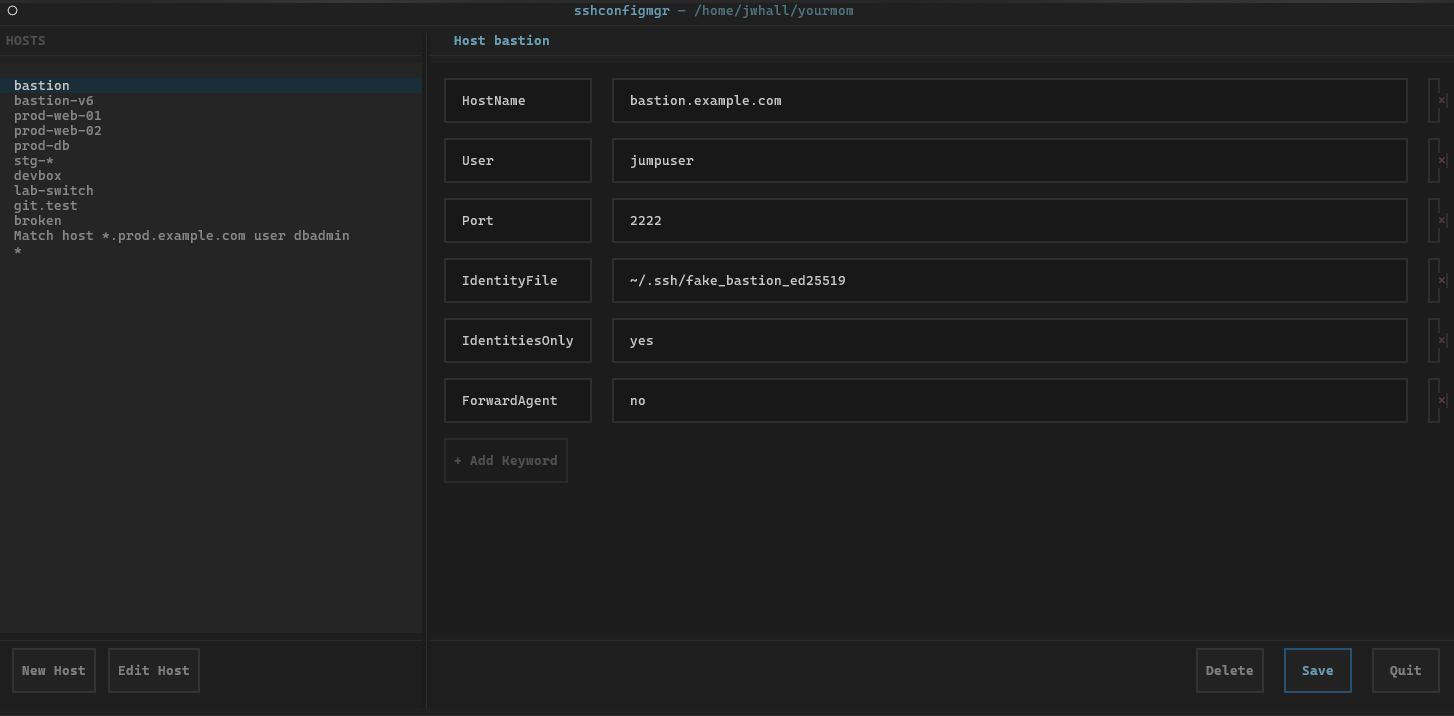
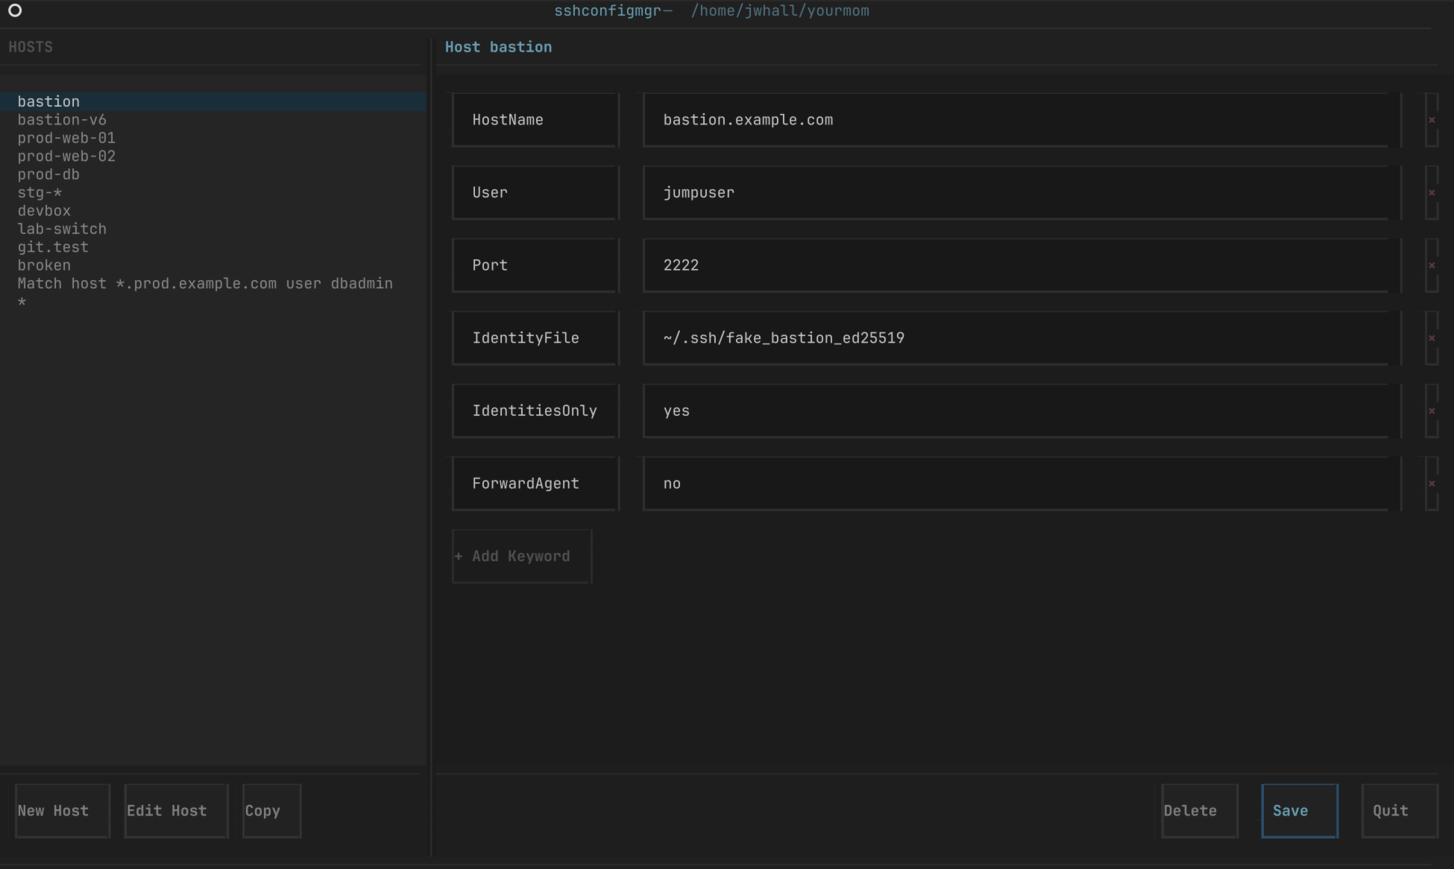
Release 0.5.0: fix Copy Host after 0.4.0 merge, refresh screenshot
- action_copy_host still called _mark_modified() and the old ListView
  index API, both removed in 0.4.0, so confirming the Copy dialog raised
  AttributeError. Mirror action_new_host: _rebuild_list(select=...) and
  _refresh_modified().
- Give the sidebar a minimum width of 36 so New Host / Edit Host / Copy
  all fit; at 30% of an 80- or 100-column terminal the Copy button was
  clipped. The editor pane now takes the remaining width.
- Add an app-level test that copies a host via the button, including an
  unsaved edit on the source.
- Remove the duplicated pre-0.4.0 changelog left by the merge of main
  into feature/copy-host, and add the 0.5.0 entry.
- Bump version to 0.5.0 and regenerate screenshot.png.

diff --git a/tests/test_app.py b/tests/test_app.py
@@ -525,6 +525,29 @@ def test_new_host_is_selected(tmp_config: Path) -> None:
     run(tmp_config, script)
 
 
+def test_copy_host_duplicates_params_and_selects_copy(tmp_config: Path) -> None:
+    tmp_config.write_text(VARIED)
+
+    async def script(app: SSHConfigApp, pilot: Pilot) -> None:
+        app._select(1)  # three
+        await settle(pilot)
+        # An unsaved edit on the source is carried into the copy.
+        app.query(ParamRow).first().query_one(".param-val", Input).value = "edited"
+        await settle(pilot)
+        await choose(pilot, "btn-copy-host")
+        assert isinstance(app.screen, InputScreen)
+        app.screen.query_one("#dialog-input", Input).value = "three-copy"
+        await choose(pilot, "ok")
+        expected = [("User", "edited"), ("Port", "3"), ("ForwardAgent", "yes")]
+        assert host_list_labels(app)[-1] == "three-copy"
+        assert app._current_entry.pattern == "three-copy"
+        assert shown_params(app) == expected
+        assert app._config.entries[1].params == expected
+        assert app._modified
+
+    run(tmp_config, script)
+
+
 def test_open_shows_first_entry_of_new_file(tmp_config: Path, tmp_path: Path) -> None:
     tmp_config.write_text(VARIED)
     other = tmp_path / "other"

diff --git a/src/sshconfigmgr/app.py b/src/sshconfigmgr/app.py
@@ -60,6 +60,7 @@ Footer {
 
 #sidebar {
     width: 30%;
+    min-width: 36;
     border-right: solid #2e2e2e;
     layout: vertical;
     background: #1c1c1c;
@@ -130,7 +131,7 @@ Footer {
 /* ── Editor ── */
 
 #editor {
-    width: 70%;
+    width: 1fr;
     layout: vertical;
 }
 
@@ -1145,14 +1146,9 @@ class SSHConfigApp(App[None]):
                 return
             # Capture any unsaved edits on the source before copying its params.
             self._sync_params_to_entry()
-            entry = self._config.copy_entry(source, pattern)
-            self._loading = True
-            self._rebuild_list()
-            self._loading = False
-            self._load_entry(entry)
-            lv = self.query_one("#host-list", HostListView)
-            lv.index = len(self._config.entries) - 1
-            self._mark_modified()
+            self._config.copy_entry(source, pattern)
+            self._rebuild_list(select=len(self._config.entries) - 1)
+            self._refresh_modified()
 
         self.push_screen(
             InputScreen("Copy host to...", "Copy Host Profile"),

diff --git a/CHANGELOG.md b/CHANGELOG.md
@@ -2,35 +2,16 @@
 
 All notable changes to this project will be documented in this file. This project adheres to [Semantic Versioning](https://semver.org/spec/v2.0.0.html).
 
-## [Unreleased]
+## [0.5.0] - 2026-10-20
 ### Added
 - **Copy Host Action**: Added a "Copy" button next to "Edit Host" that duplicates the selected Host entry, with all of its keywords and values, under a new Host pattern.
 
-## [0.3.0] - 2026-03-12
-### Added
-- **Source Layout**: Migrated code to a `src/` directory structure for better packaging compliance.
-- **CI/CD Workflow**: Added GitHub Actions to run tests automatically on Ubuntu and Windows.
-- **Unit Tests**: Implemented a test suite for the SSH parser and port validation logic.
-- **Package Metadata**: Added `__init__.py` and updated `pyproject.toml` with entry points and project URLs.
-- **Edit Host Action**: Added the ability to rename or edit existing Host patterns within the TUI.
+### Fixed
+- The "Copy" button was clipped off the sidebar on terminals narrower than ~120 columns; the sidebar now has a minimum width that fits all three host buttons.
 
 ### Changed
-- Refactored imports to use the `sshconfigmgr` namespace.
-- Updated `pyproject.toml` version to 0.3.0.
-
-## [0.2.0] - 2026-02-15
-### Added
-- Integrated validation logic for SSH Port ranges (1-65535).
-- Implemented "Add Keyword" modal with live filtering of `ssh_config` directives.
-
-## [0.1.0] - 2026-01-30
-### Added
-- Initial release with basic TUI functionality.
-- Support for reading and saving standard SSH config files.
-- Preamble and leading comment preservation.
-# Changelog
-
-All notable changes to this project will be documented in this file. This project adheres to [Semantic Versioning](https://semver.org/spec/v2.0.0.html).
+- Updated README screenshot to show the Copy button.
+- Updated `pyproject.toml` version to 0.5.0.
 
 ## [0.4.0] - 2026-10-06
 ### Added
